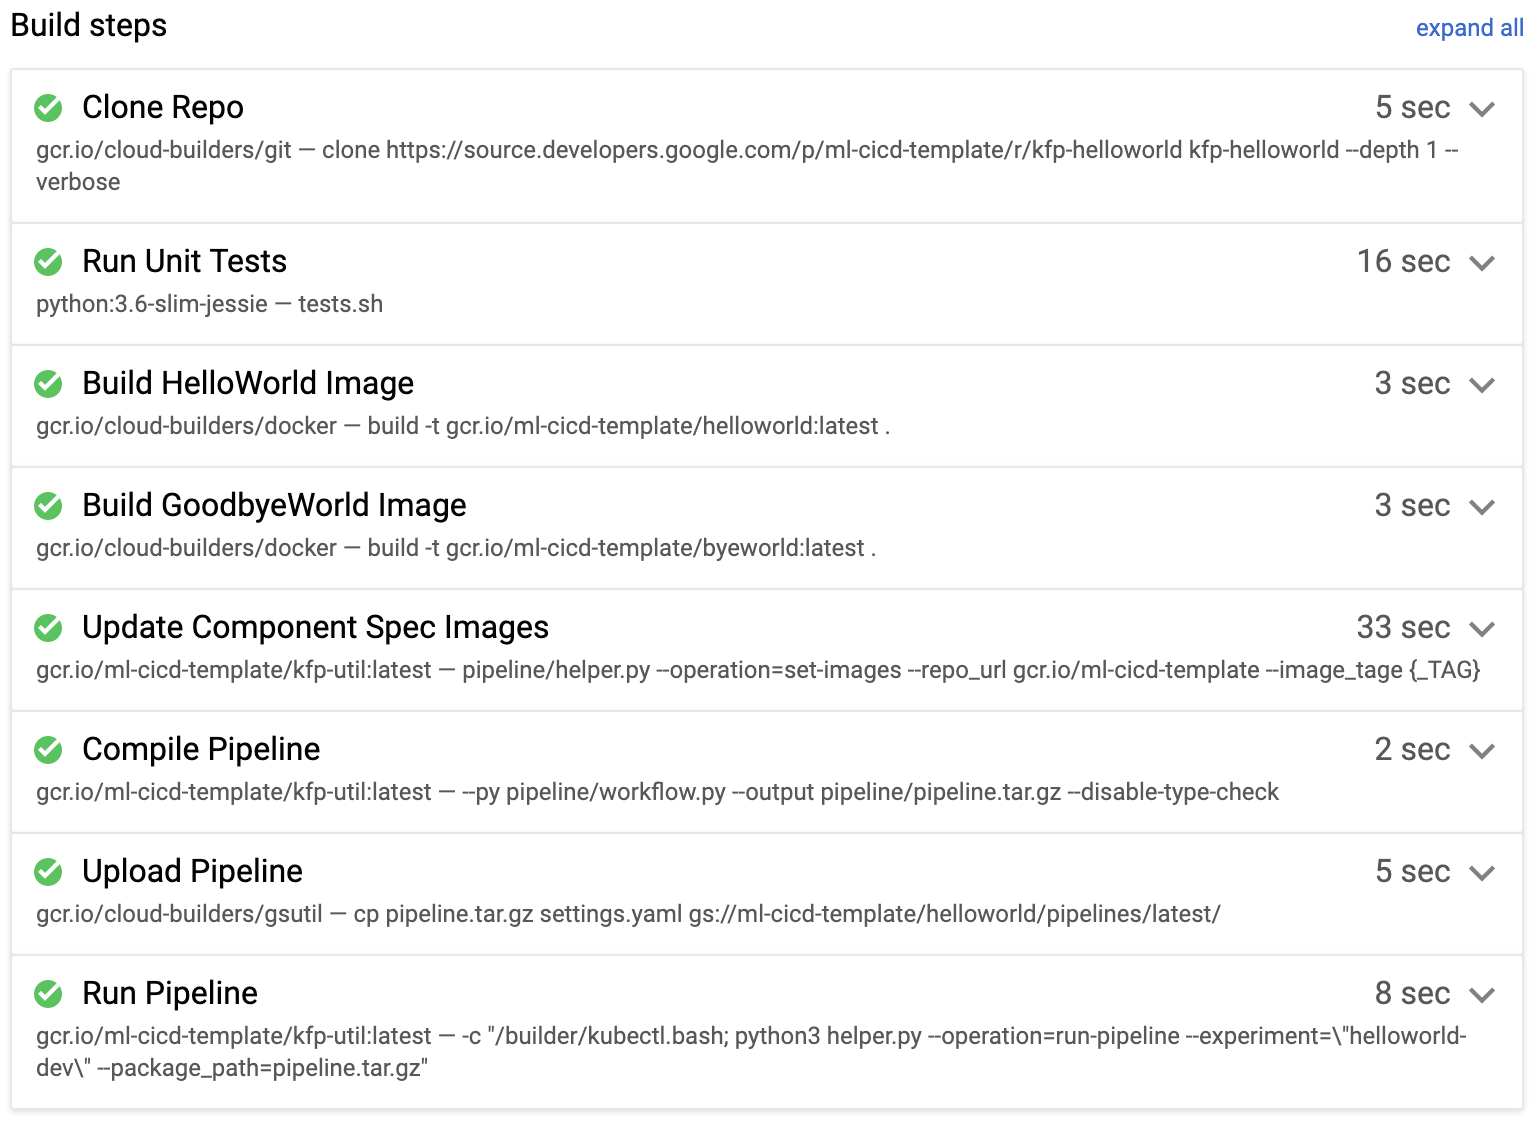
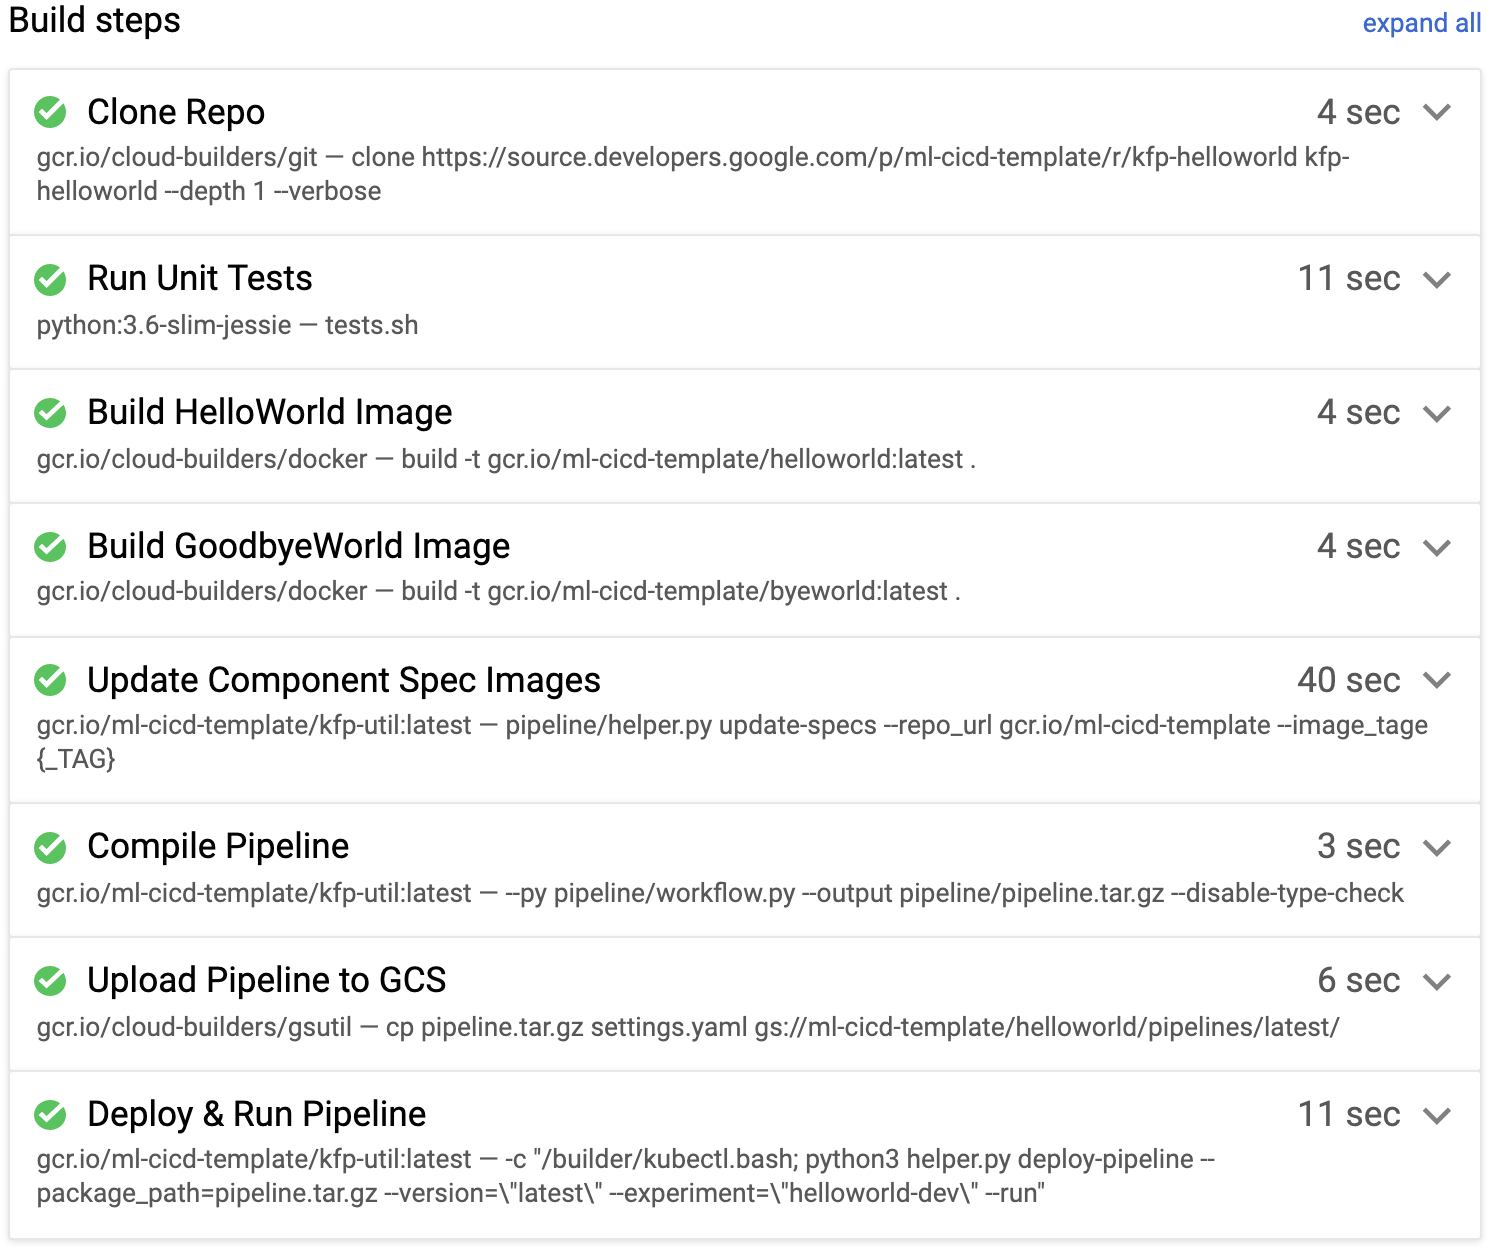
Update README.md

diff --git a/kfp-cloudbuild/README.md b/kfp-cloudbuild/README.md
@@ -144,9 +144,10 @@ defined in [workflow.py](pipeline/workflow.py), to generate **pipeline.tar.gz** 
 7. **Upload to GCS**: This uploads the **pipeline.tar.gz** package to GCS.
     * This step uses [gcr.io/cloud-builders/gsutil](https://github.com/GoogleCloudPlatform/cloud-builders/tree/master/gsutil) image.
 
-8. **Run Pipeline**: This executes the **run_pipeline** method
-in the [helper.py](pipeline/helper.py) module, given the **pipeline.tar.gz** package.
-The method creates and experiment in KFP, and run pipeline given the 
+8. **Deploy & Run Pipeline**: This executes the **deploy_pipeline** method
+in the [helper.py](pipeline/helper.py) module, given the **pipeline.tar.gz** package and pipeline **version**. 
+The method deploys the pipeline package to KFP. If an optional **--run** argument is passed,  
+the method also creates and experiment in KFP, and run pipeline given the 
 created experiment, compiled pipeline package, and loaded parameter values from the [settings.yaml](pipeline/settings.yaml) file.
     * This step uses the custom **kfp-util** image defines in this [Dockefile](build/Dockerfile).
     
